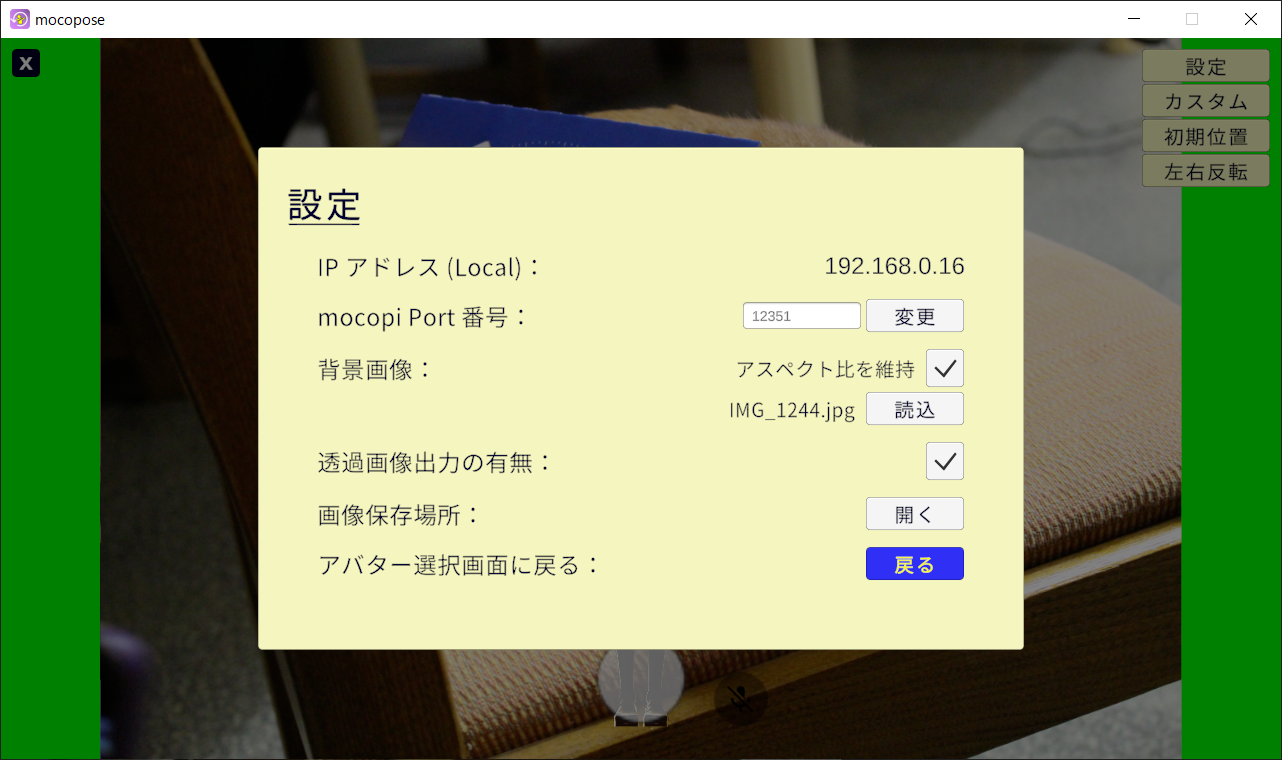
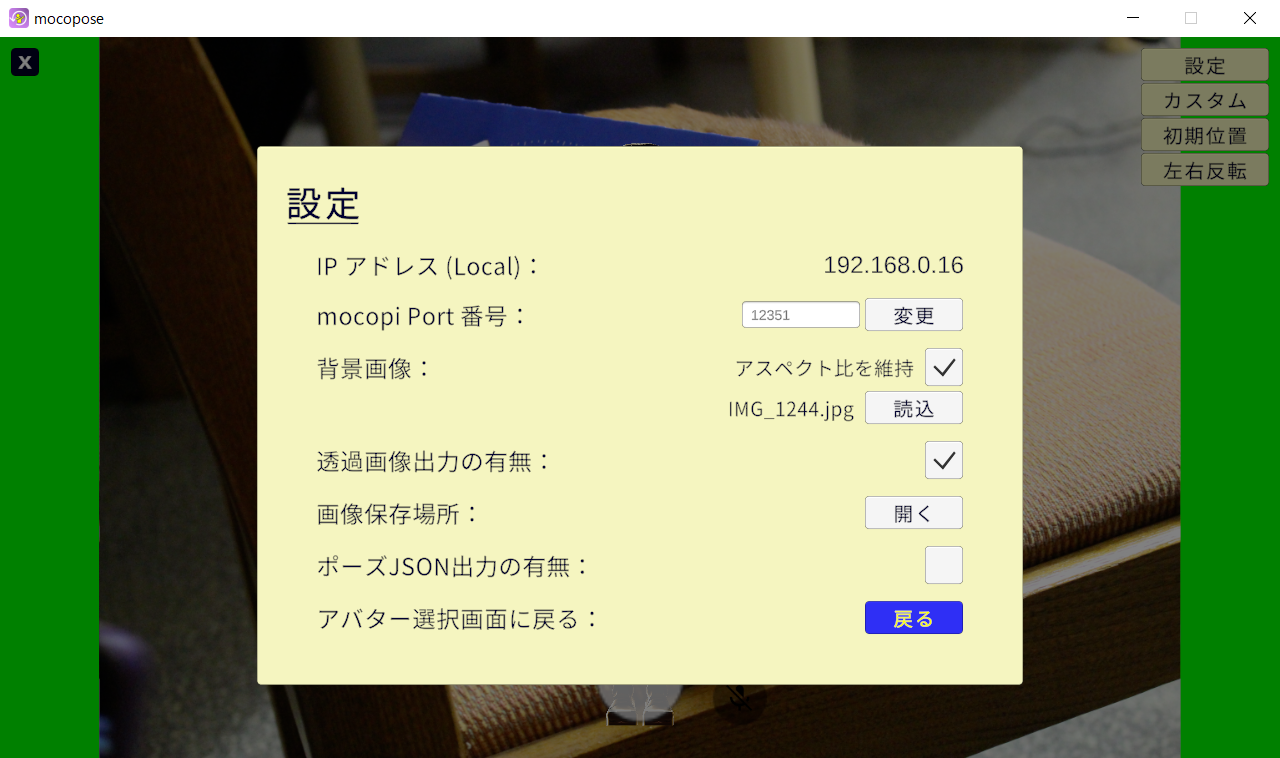
AnimationClip作成について追記 (#7)

diff --git a/Document/Manual.md b/Document/Manual.md
@@ -1,11 +1,11 @@
 # mocopose (もこポーズ) マニュアル
-アプリバージョン：0.4
+アプリバージョン：0.5
 
 
 ## mocopose とは？
 モーションキャプチャセンサ及びスマートフォンアプリの mocopi を使い<br/>
-手軽に 好きなポーズ で動画・配信等のサムネイル素材を制作できる Windows アプリです。
-
+手軽に 好きなポーズ で動画・配信等のサムネイル素材を制作できる Windows アプリです。<br/>
+さらに Unity を使うことで、ポーズの AnimationClip を作ることができます。<br/>
 
 ## 使い方概要
 1. mocopose アプリを起動します
@@ -15,6 +15,15 @@
 5. 撮影画面でカメラやアバターの調整を行います
 6. シャッターを切ります
 7. プレビュー画面でカメラ、アバター、ポーズタイミングの調整をして画像を保存します
+
+
+## ポーズの AnimationClip 作成について
+同じく配布している「MocoposeAnimationClipCreater」を使うことで<br/>
+mocopose で出力したポーズ JSON から AnimationClip を作ることができます。<br/>
+
+ポーズ JSON 出力については、後述の「3-a. 設定画面」をご参照ください。<br/>
+また、「MocoposeAnimationClipCreater」の使い方については<br/>
+同梱の README をご参照ください。<br/>
 
 
 ## ファイアーウォール警告画面について
@@ -118,7 +127,11 @@
 <br/><br/>
 - 透過画像の出力を有効にすることで、デフォルトで出力される、背景＋アバターの画像のほか、アバターのみを透過した画像も加えて出力できます
 <br/><br/>
+- ポーズ JSON の出力を有効にすることで、ポーズに関する JSON データを出力できます
+    - 保存場所：`C:\Users\{username}\Pictures\mocopose\JsonData` 
+<br/><br/>
 - 「開く」ボタンを押すことで、出力した画像を保存する場所をエクスプローラーで開きます 
+    - 保存場所：`C:\Users\{username}\Pictures\mocopose\Screenshots`
 <br/><br/>
 - 「戻る」ボタンを押すことで、アバター選択画面に移動します
 <br/><br/>
@@ -157,6 +170,7 @@
 - 「カスタム」ボタンを押すことで、カスタム画面を開きます
 <br/><br/>
 - 「保存」ボタンを押すことで、画像を保存します
+    - ポーズ JSON 出力を有効にしている場合、ポーズ JSON を保存します 
 <br/><br/>
 - 「戻る」ボタンを押すことで、撮影画面に戻ります 
 <br/><br/>
